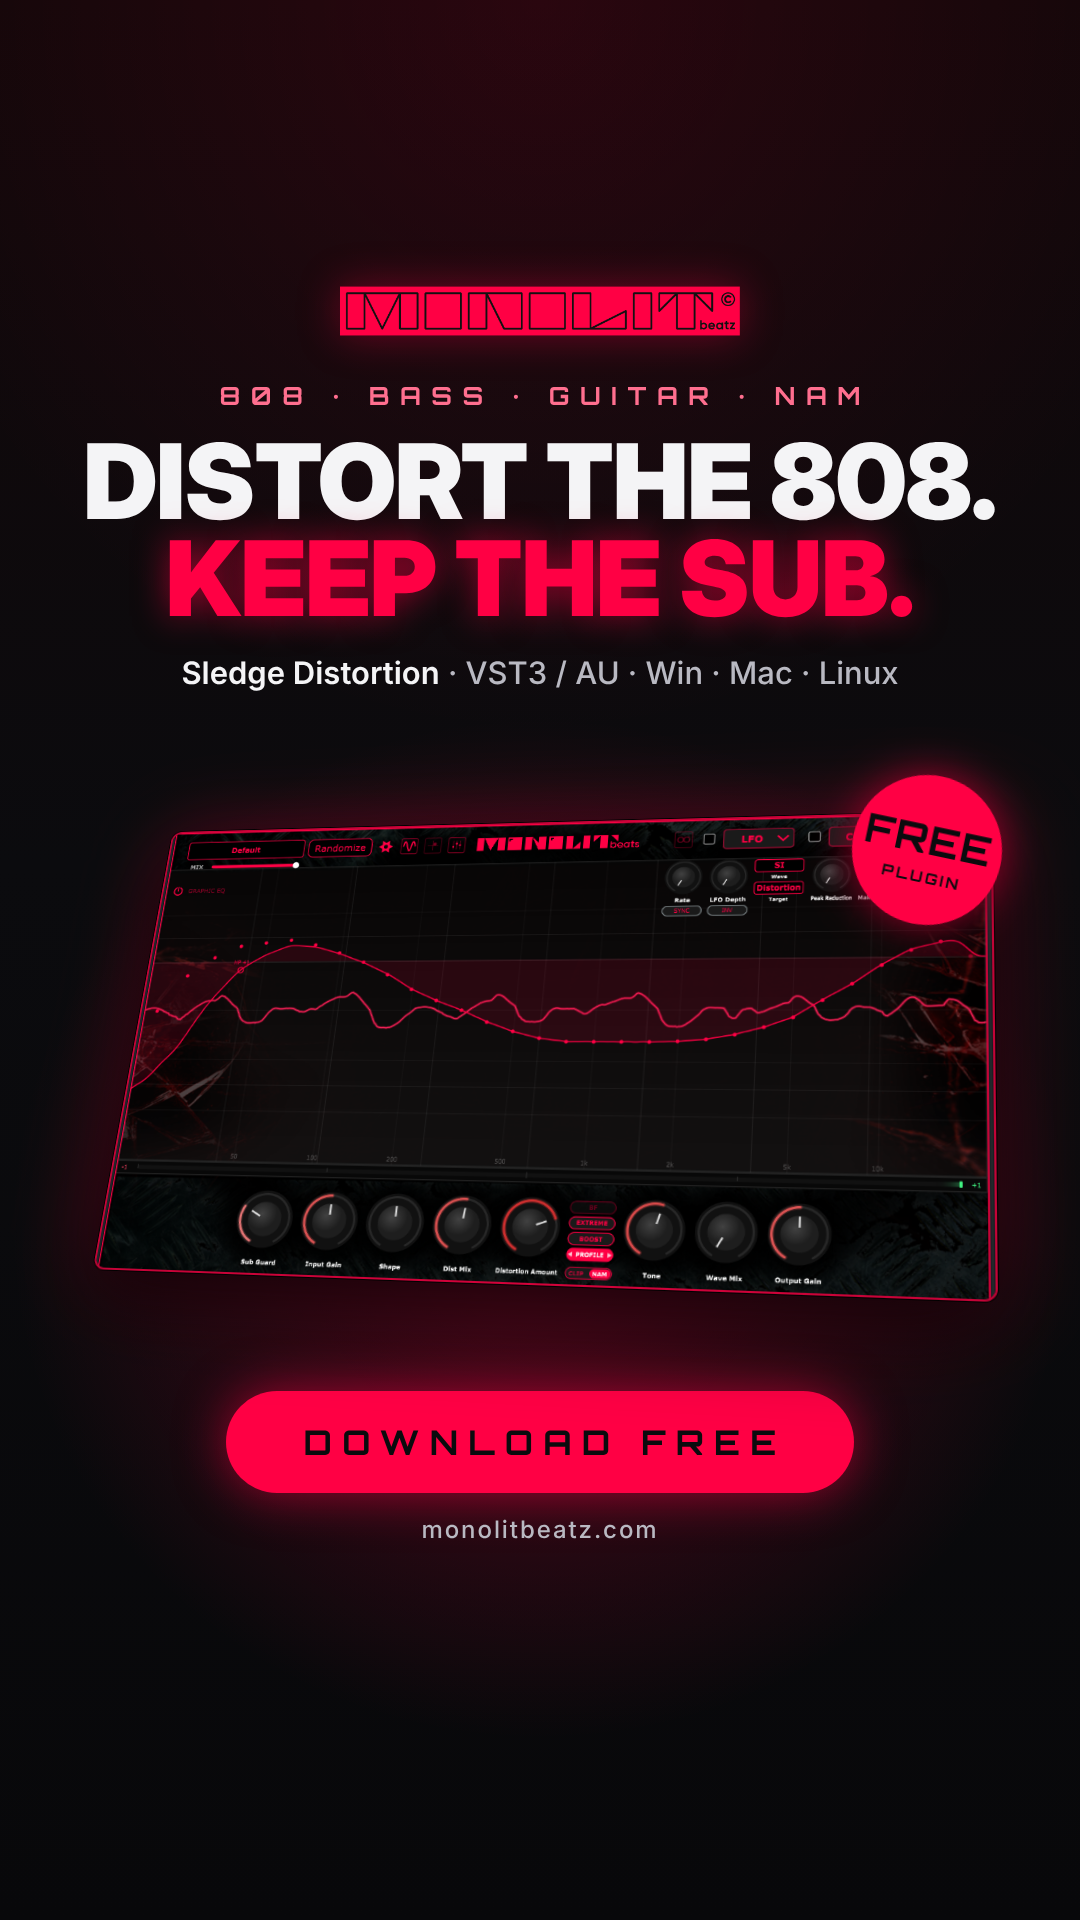
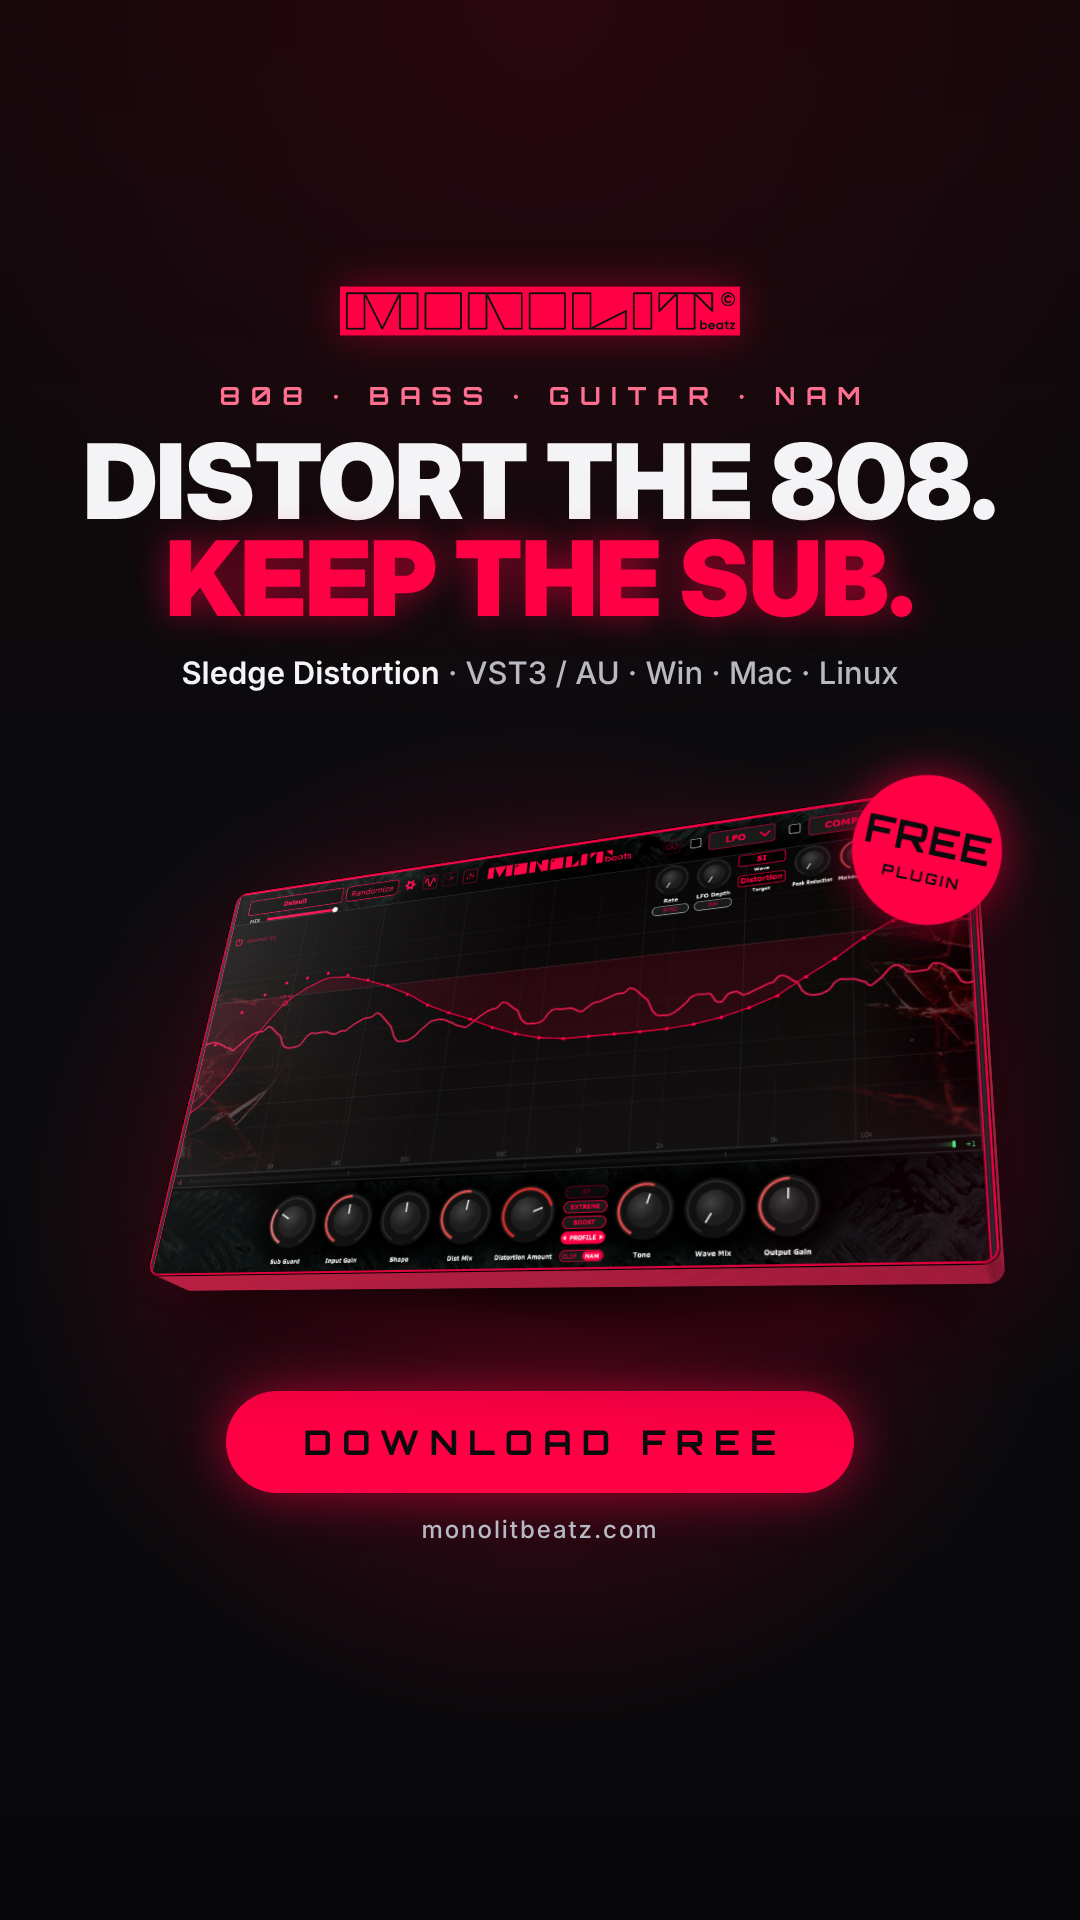
chore: give the launch post's plugin window 3D depth
The screenshot is now a slab with a lit red edge, stronger perspective, a glass sheen and a floor shadow.

Changed region(s): [[0.0917, 0.4062, 0.9472, 0.6875]]

diff --git a/marketing/launch/post.html b/marketing/launch/post.html
@@ -49,14 +49,39 @@
 
   .stage {
     position: relative; margin-top: 44px; width: 940px; height: 470px;
-    perspective: 1700px;
+    perspective: 1250px;
   }
   body.story .stage { margin-top: 90px; height: 520px; }
-  .shot {
-    position: absolute; left: 50%; top: 50%; width: 880px;
-    transform: translate(-50%, -50%) rotateX(22deg) rotateY(-12deg) rotateZ(5deg);
-    border-radius: 12px; border: 2px solid rgba(255,0,68,.75);
-    box-shadow: 0 0 0 1px #000, 0 30px 80px rgba(0,0,0,.8), 0 0 90px rgba(255,0,68,.35);
+  /* The window is a slab: a screen face plus stacked layers behind it that
+     read as a thick body once rotated. */
+  .floor {
+    position: absolute; left: 50%; bottom: -34px; width: 820px; height: 90px;
+    transform: translateX(-50%) rotate(4deg); border-radius: 50%;
+    background: radial-gradient(ellipse at center, rgba(0,0,0,.95), rgba(255,0,68,.18) 55%, transparent 72%);
+    filter: blur(18px);
+  }
+  .device {
+    position: absolute; left: 50%; top: 50%; width: 840px; aspect-ratio: 1210 / 679;
+    transform: translate(-50%, -50%) rotateX(28deg) rotateY(-22deg) rotateZ(6deg);
+    transform-style: preserve-3d;
+  }
+  .slab {
+    position: absolute; inset: 0; border-radius: 14px;
+    background: linear-gradient(160deg, #6a1527 0%, #2a0a12 45%, #0c0507 100%);
+    border: 1px solid rgba(255,40,90,.55);
+  }
+  .slab.back { box-shadow: 0 40px 90px rgba(0,0,0,.85), 0 0 110px rgba(255,0,68,.35); }
+  .screen {
+    position: absolute; inset: 0; border-radius: 14px; overflow: hidden;
+    transform: translateZ(1px);
+    border: 2px solid rgba(255,0,68,.85);
+    box-shadow: 0 0 0 1px #000, inset 0 0 30px rgba(0,0,0,.6);
+  }
+  .screen img { display: block; width: 100%; height: 100%; }
+  .screen::after {          /* glass sheen across the face */
+    content: ""; position: absolute; inset: 0;
+    background: linear-gradient(118deg, rgba(255,255,255,.16) 0%, rgba(255,255,255,.04) 28%,
+                transparent 42%, transparent 78%, rgba(255,0,68,.08) 100%);
   }
   .badge {
     position: absolute; right: 8px; top: -6px; width: 150px; height: 150px;
@@ -86,7 +111,10 @@
     <p class="sub"><b>Sledge Distortion</b> · VST3 / AU · Win · Mac · Linux</p>
 
     <div class="stage">
-      <img class="shot" src="assets/ui.png" alt="Sledge Distortion interface">
+      <div class="floor"></div>
+      <div class="device" id="device">
+        <div class="screen"><img src="assets/ui.png" alt="Sledge Distortion interface"></div>
+      </div>
       <div class="badge"><span class="big">FREE</span><span class="small">PLUGIN</span></div>
     </div>
 
@@ -95,6 +123,15 @@
   </div>
   <script>
     if (location.hash === "#story") document.body.classList.add("story");
+    // Build the slab's thickness: 1.5 px layers stepping back 36 px.
+    const device = document.getElementById("device");
+    const DEPTH = 58, STEP = 1.5;
+    for (let z = STEP; z <= DEPTH; z += STEP) {
+      const s = document.createElement("div");
+      s.className = "slab" + (z + STEP > DEPTH ? " back" : "");
+      s.style.transform = `translateZ(${-z}px)`;
+      device.insertBefore(s, device.firstChild);
+    }
   </script>
 </body>
 </html>
